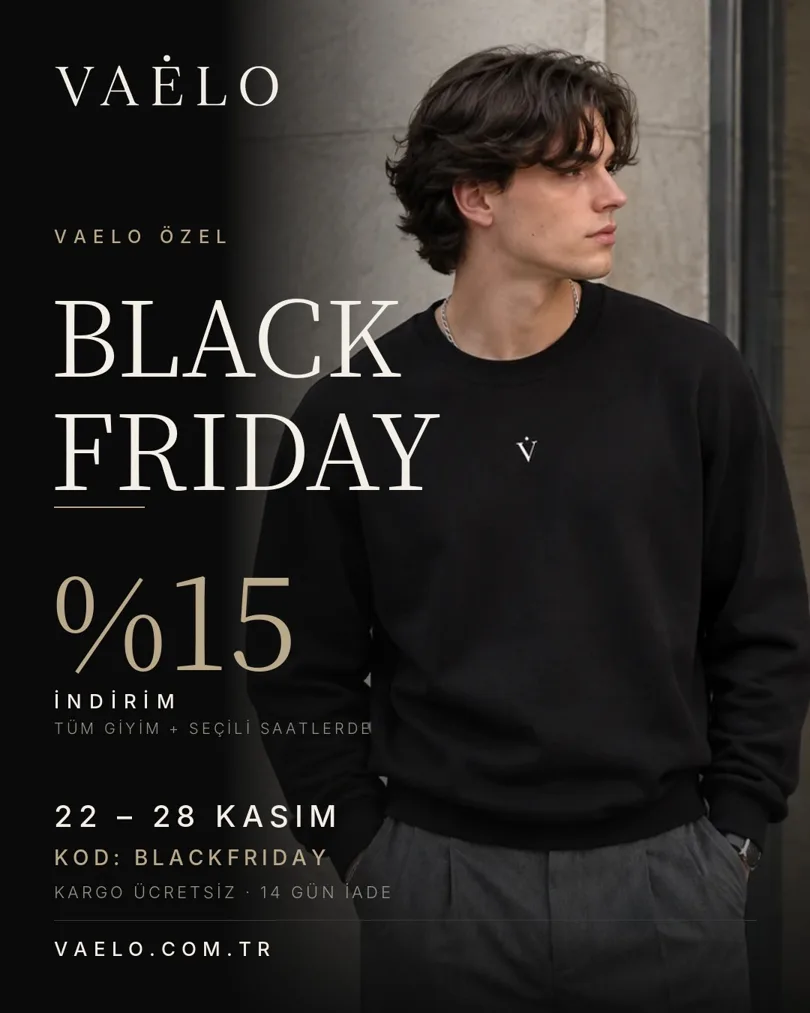
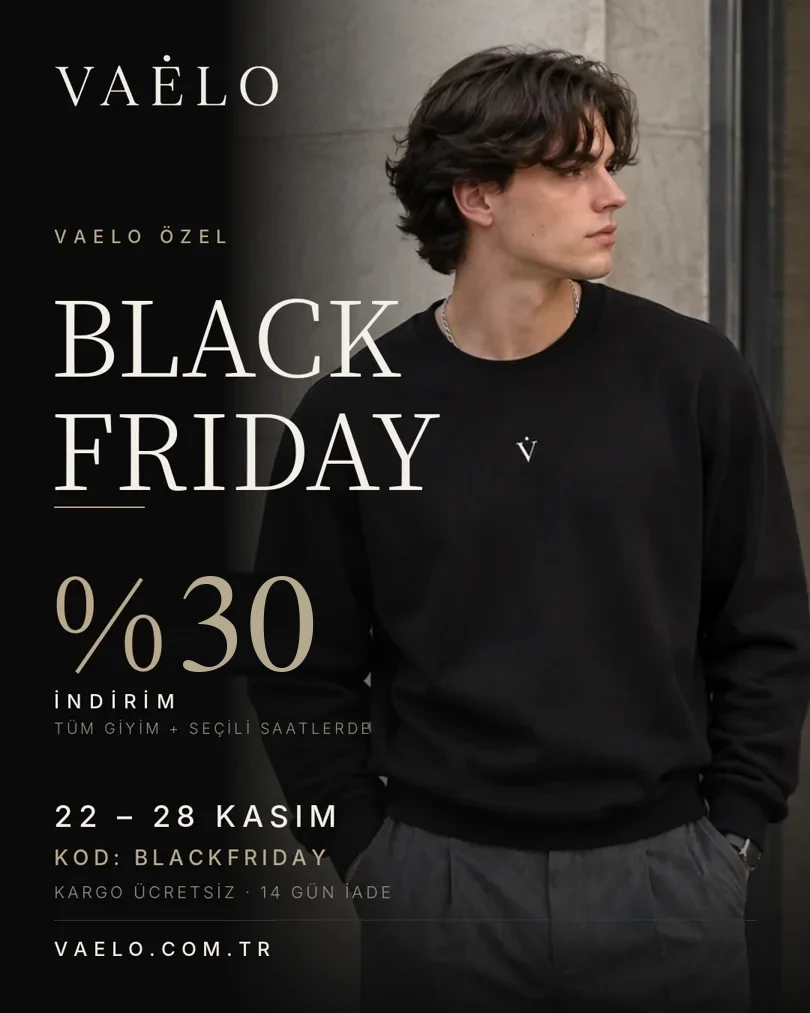
Black Friday görseli %30
Claude-Session: https://claude.ai/code/session_01X24rkEAQUCsKmTN842dsQp

Changed region(s): [[0.216, 0.5508, 0.4012, 0.6732]]

diff --git a/assets/black-friday.js b/assets/black-friday.js
@@ -65,7 +65,7 @@
     bg.innerHTML = '' +
       '<div class="bf">' +
         '<button class="bf-x" aria-label="Kapat">&times;</button>' +
-        '<img class="bf-img" src="/assets/black-friday.webp" alt="VAELO Black Friday, 22–28 Kasım, BLACKFRIDAY koduyla yüzde 30 indirim" width="810" height="1013">' +
+        '<img class="bf-img" src="/assets/black-friday.webp?v=30" alt="VAELO Black Friday, 22–28 Kasım, BLACKFRIDAY koduyla yüzde 30 indirim" width="810" height="1013">' +
         '<button class="bf-btn">Kodu Uygula · Alışverişe Başla</button>' +
         '<div class="bf-note">%30 indirim tüm giyimde ve 5.500 TL üstü saatlerde geçerlidir · Kargo ücretsiz</div>' +
       '</div>';
